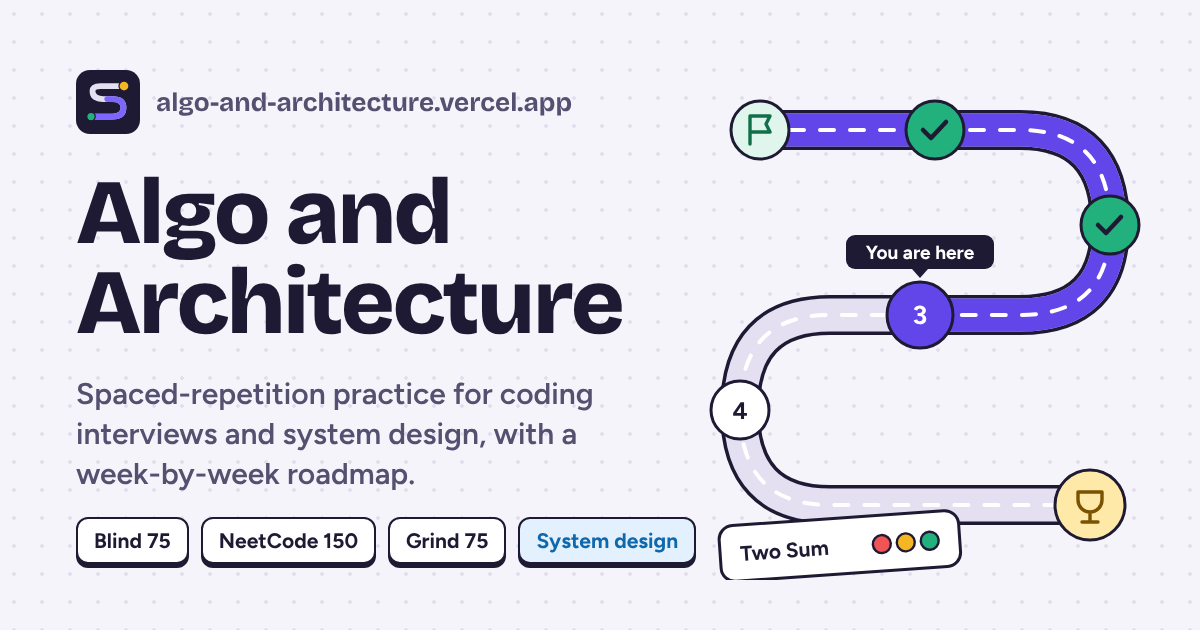
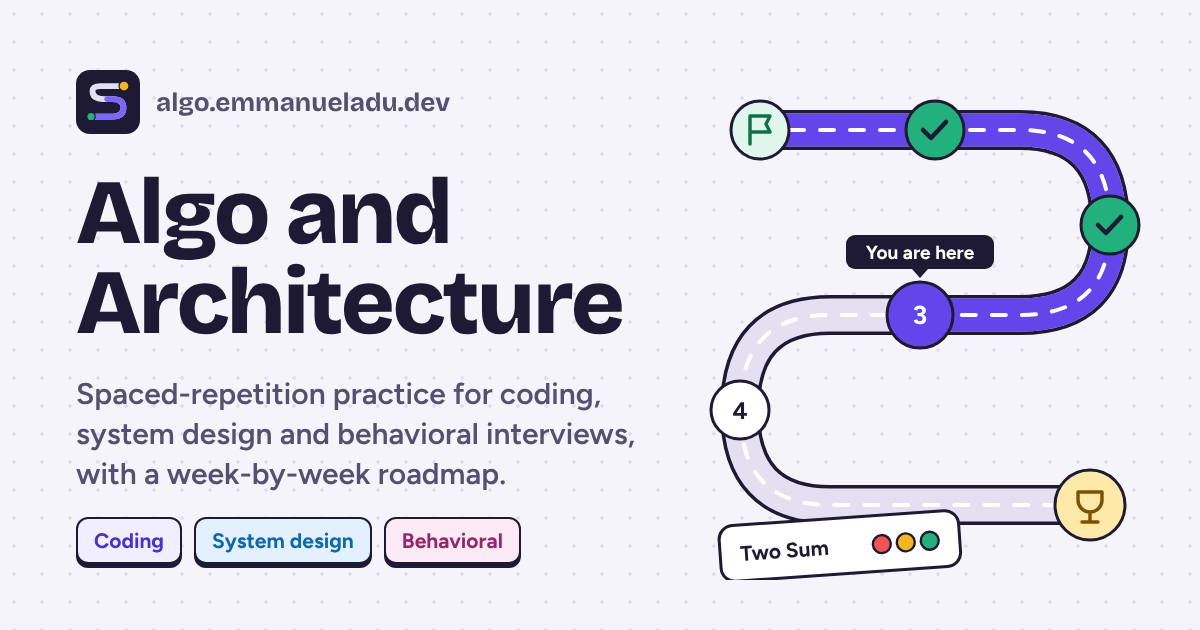
Refresh share card and descriptions for all three tracks
The link preview still showed the old vercel.app address and only
coding and system design. It now shows algo.emmanueladu.dev with
Coding, System design and Behavioral, and the descriptions mention the
behavioral questions.

Claude-Session: https://claude.ai/code/session_01MT8nDjWVyfoVhYDFhDmQYC

Changed region(s): [[0.0617, 0.6635, 0.5242, 0.7841], [0.0617, 0.8143, 0.5858, 0.9048], [0.1542, 0.1508, 0.4933, 0.181]]

diff --git a/public/index.html b/public/index.html
@@ -4,7 +4,7 @@
 <meta charset="utf-8">
 <meta name="viewport" content="width=device-width, initial-scale=1">
 <title>Algo and Architecture</title>
-<meta name="description" content="Spaced-repetition practice for coding interviews and system design: Blind 75, NeetCode 150, Grind 75 and a system design path, with a week-by-week roadmap. Free, no account needed.">
+<meta name="description" content="Spaced-repetition practice for coding, system design and behavioral interviews: Blind 75, NeetCode 150, Grind 75, 41 system design topics and 28 behavioral questions, with a week-by-week roadmap. Free, no account needed.">
 <link rel="canonical" href="https://algo.emmanueladu.dev/">
 <meta name="theme-color" content="#f6f6f8">
 <link rel="icon" href="/icon.svg" type="image/svg+xml">
@@ -15,16 +15,16 @@
 <meta property="og:type" content="website">
 <meta property="og:site_name" content="Algo and Architecture">
 <meta property="og:title" content="Algo and Architecture">
-<meta property="og:description" content="Spaced-repetition practice for coding interviews and system design: Blind 75, NeetCode 150, Grind 75 and a system design path, with a week-by-week roadmap. Free, no account needed.">
+<meta property="og:description" content="Spaced-repetition practice for coding, system design and behavioral interviews: Blind 75, NeetCode 150, Grind 75, 41 system design topics and 28 behavioral questions, with a week-by-week roadmap. Free, no account needed.">
 <meta property="og:url" content="https://algo.emmanueladu.dev/">
 <meta property="og:image" content="https://algo.emmanueladu.dev/og.png">
 <meta property="og:image:type" content="image/png">
 <meta property="og:image:width" content="1200">
 <meta property="og:image:height" content="630">
-<meta property="og:image:alt" content="Algo and Architecture: a winding roadmap with weekly stops, beside the lists Blind 75, NeetCode 150, Grind 75 and System design.">
+<meta property="og:image:alt" content="Algo and Architecture: a winding roadmap with weekly stops, beside tags for Coding, System design and Behavioral.">
 <meta name="twitter:card" content="summary_large_image">
 <meta name="twitter:title" content="Algo and Architecture">
-<meta name="twitter:description" content="Spaced-repetition practice for coding interviews and system design: Blind 75, NeetCode 150, Grind 75 and a system design path, with a week-by-week roadmap. Free, no account needed.">
+<meta name="twitter:description" content="Spaced-repetition practice for coding, system design and behavioral interviews: Blind 75, NeetCode 150, Grind 75, 41 system design topics and 28 behavioral questions, with a week-by-week roadmap. Free, no account needed.">
 <meta name="twitter:image" content="https://algo.emmanueladu.dev/og.png">
 <link rel="preconnect" href="https://fonts.googleapis.com">
 <link rel="preconnect" href="https://fonts.gstatic.com" crossorigin>
